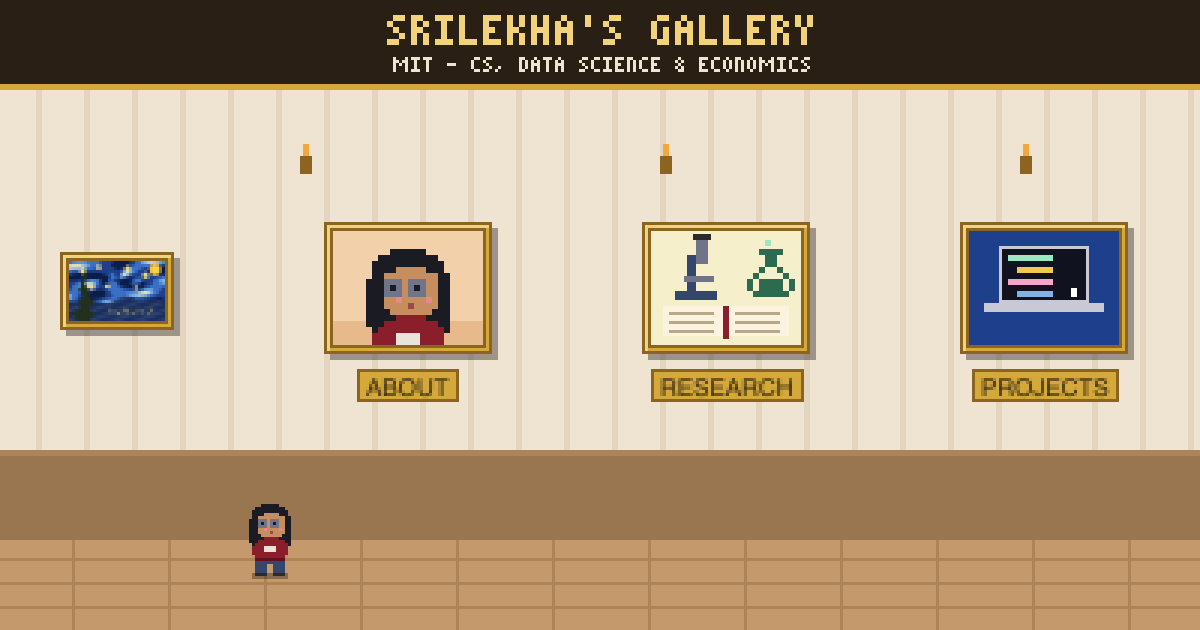
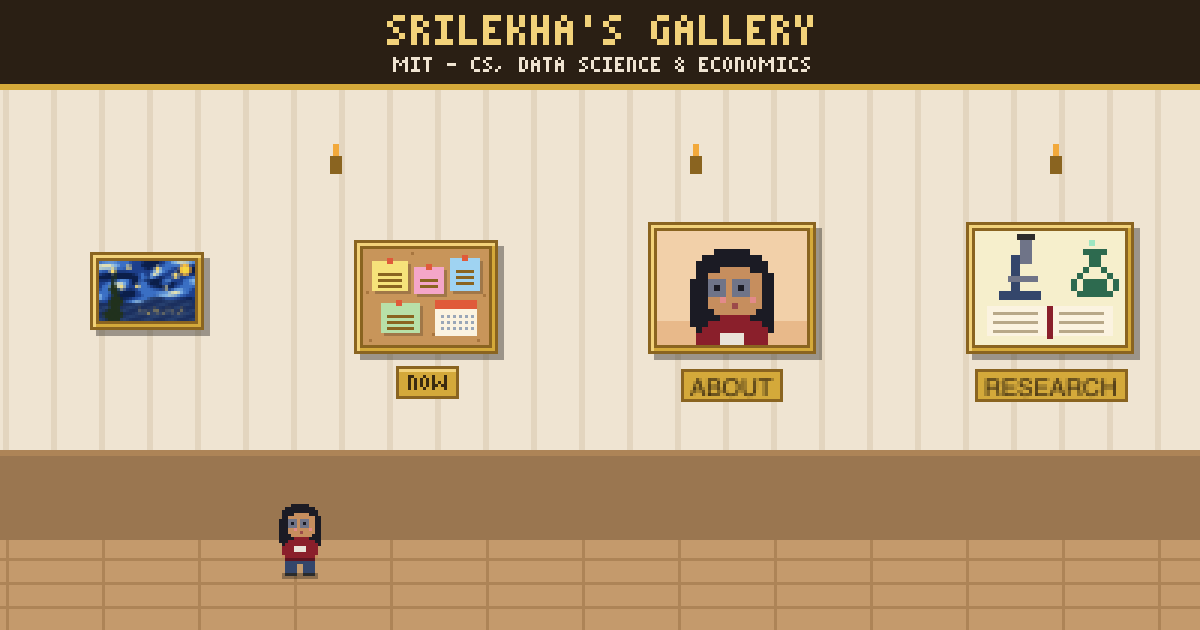
Add a Now board to the main hall
A corkboard between the Starry Night and About shows this month's card
(edit data.now); the Quick view opens with the same list. The link
preview image is regenerated to include it.

diff --git a/frontend/src/scenes/rooms.test.js b/frontend/src/scenes/rooms.test.js
@@ -12,12 +12,12 @@ const builds = data.projects.filter((p) => p.room !== 'research')
 
 describe('rooms', () => {
   it('main hall has its six frames in order and no tiles', () => {
-    expect(rooms.hall.frames.map((f) => f.id)).toEqual(['starry', 'about', 'research', 'projects', 'experience', 'contact'])
+    expect(rooms.hall.frames.map((f) => f.id)).toEqual(['starry', 'now', 'about', 'research', 'projects', 'experience', 'contact'])
     expect(rooms.hall.tiles).toEqual([])
     const [starry, about] = rooms.hall.frames
     expect(starry.w).toBeLessThan(about.w)
     expect(starry.h).toBeLessThan(about.h)
-    for (const f of rooms.hall.frames.slice(1)) expect(f.target).toBe(f.id)
+    for (const f of rooms.hall.frames.slice(2)) expect(f.target).toBe(f.id)
   })
   it('shows every project and role exactly once across the three work rooms', () => {
     const work = ['research', 'projects', 'experience'].flatMap((id) => rooms[id].frames)
@@ -208,5 +208,14 @@ describe('rooms', () => {
   it('TRACE credits MIT CSAIL on its plaque', () => {
     const trace = rooms.research.frames.find((f) => f.thumb.art === 'trace')
     expect(plaqueLines(trace.plaque)).toEqual(['Knowledge Graph QA', 'MIT CSAIL'])
+  })
+  it('the main hall has a Now board with this month\'s card and no portal', () => {
+    const now = rooms.hall.frames.find((f) => f.id === 'now')
+    expect(now.kind).toBe('now')
+    expect(now.target).toBeUndefined()
+    expect(now.plaque).toBe('Now')
+    expect(now.thumb).toEqual({ type: 'art', art: 'now' })
+    expect(now.card.title).toBe(`Now · ${data.now.month}`)
+    expect(now.card.bullets).toEqual(data.now.items)
   })
 })

diff --git a/frontend/src/scenes/rooms.js b/frontend/src/scenes/rooms.js
@@ -35,11 +35,20 @@ const START_TILE_X = 16 // Home portal just inside the entrance
 const SECTION_SPAWN_X = 64 // arrive clear of that portal
 const FIRST_ITEM_X = 100
 
-export function buildHall() {
+export function buildHall(now) {
   const frames = []
   let x = 60
   frames.push({ id: 'starry', kind: 'starry', label: 'The Starry Night', x, ...STARRY_FRAME })
   x += STARRY_FRAME.w + HALL_GAP
+  if (now) {
+    // "Now" board: a corkboard with this month's card, not a portal.
+    frames.push({
+      id: 'now', kind: 'now', label: 'Now', plaque: 'Now', x, ...ITEM_FRAME,
+      thumb: { type: 'art', art: 'now' },
+      card: card({ title: `Now · ${now.month}`, bullets: now.items }),
+    })
+    x += ITEM_FRAME.w + HALL_GAP
+  }
   for (const s of SECTIONS) {
     frames.push({ id: s.id, kind: 'section', label: s.label, target: s.id, cover: s.id, x, ...HALL_FRAME })
     x += HALL_FRAME.w + HALL_GAP
@@ -197,7 +206,7 @@ export function buildRooms(data) {
   const section = (id) => SECTIONS.find((s) => s.id === id)
   const inResearch = (x) => x.room === 'research'
   return {
-    hall: buildHall(),
+    hall: buildHall(data.now),
     about: sectionRoom(section('about'), aboutItems(data)),
     // Research: roles first, then papers, so the CSAIL role sits next to its paper.
     research: sectionRoom(section('research'), [

diff --git a/frontend/src/engine/paintings/frameArt.js b/frontend/src/engine/paintings/frameArt.js
@@ -236,6 +236,22 @@ const SCENES = {
     r(0, 30, 42, 2, '#9ccf8a')
   },
 
+  // ---- Main hall ----
+  // Now board: pinned notes and this month's calendar page on a corkboard
+  now(r, px, t) {
+    r(0, 0, 42, 32, '#c8955a')
+    for (const [sx, sy] of [[2, 30], [16, 1], [40, 15], [23, 28], [1, 14], [38, 30]]) r(sx, sy, 1, 1, '#a8763f')
+    const note = (x, y, w, h, color) => {
+      r(x + 1, y + 1, w, h, 'rgba(0,0,0,0.2)'); r(x, y, w, h, color)
+      for (let ly = y + 4; ly < y + h - 1; ly += 2) r(x + 2, ly, w - 4, 1, '#8a6420')
+      r(x + Math.floor(w / 2) - 1, y - 1, 2, 2, '#e05a3a')
+    }
+    note(3, 4, 12, 10, '#f6e27a'); note(17, 6, 10, 9, '#f4a6c8'); note(29, 3, 10, 11, '#9fd3f2'); note(6, 18, 13, 10, '#b8e0a8')
+    r(24, 17, 14, 12, '#fbf3e0'); r(24, 17, 14, 3, '#e05a3a')
+    for (let gy = 22; gy < 28; gy += 2) for (let gx = 26; gx < 37; gx += 2) r(gx, gy, 1, 1, '#9aa7b8')
+    if (Math.floor(t * 2) % 2) r(32, 24, 3, 3, '#e05a3a') // today, circled
+  },
+
   // ---- About ----
   avatar(r, px, t) {
     r(0, 0, 42, 32, '#f2d0a9'); r(0, 24, 42, 8, '#e8b98a')

diff --git a/frontend/src/ui/QuickView.test.jsx b/frontend/src/ui/QuickView.test.jsx
@@ -10,7 +10,7 @@ describe('QuickView', () => {
       expect(screen.getByRole('heading', { name: h })).toBeTruthy()
     }
     for (const p of data.projects) expect(screen.getByText(p.title)).toBeTruthy()
-    for (const e of data.experience) expect(screen.getByText(e.company)).toBeTruthy()
+    for (const e of data.experience) expect(screen.getByRole('heading', { name: e.company })).toBeTruthy()
   })
   it('never shows a GPA', () => {
     const { container } = render(<QuickView data={data} onClose={() => {}} />)
@@ -46,5 +46,10 @@ describe('QuickView', () => {
     render(<QuickView data={data} onClose={() => {}} />)
     const trace = screen.getByText(/^TRACE:/).closest('article')
     expect(trace.querySelectorAll('li')).toHaveLength(2)
+  })
+  it('opens with what Srilekha is doing now', () => {
+    render(<QuickView data={data} onClose={() => {}} />)
+    const now = screen.getByRole('heading', { name: `Now · ${data.now.month}` }).closest('section')
+    expect(now.querySelectorAll('li')).toHaveLength(data.now.items.length)
   })
 })

diff --git a/frontend/src/ui/QuickView.jsx b/frontend/src/ui/QuickView.jsx
@@ -26,7 +26,7 @@ const project = (p) => (
 
 export default function QuickView({ data, onClose }) {
   const closeRef = useRef(null)
-  const { profile, education, skills, interests, experience, projects } = data
+  const { profile, education, skills, interests, experience, projects, now } = data
 
   useEffect(() => {
     closeRef.current?.focus()
@@ -46,6 +46,11 @@ export default function QuickView({ data, onClose }) {
             <p>{profile.fullRole}</p>
           </div>
         </header>
+
+        <section>
+          <h2>Now · {now.month}</h2>
+          <ul>{now.items.map((item) => <li key={item}><RichText text={item} /></li>)}</ul>
+        </section>
 
         <section>
           <h2>About</h2>

diff --git a/frontend/src/engine/game.js b/frontend/src/engine/game.js
@@ -90,7 +90,9 @@ export function createGame({ canvas, emitter, data, initialRoom = 'hall', playIn
       if (ev.type === 'frame') {
         if (inHall) {
           const f = ev.frame
-          emitter.emit('bubble', f ? { text: f.kind === 'starry' ? STARRY_TEXT : enterFrameText(f.label, isTouch) } : null)
+          emitter.emit('card', f?.card ?? null) // the Now board has a card; the paintings don't
+          if (f?.card) audio.sfx('card')
+          emitter.emit('bubble', f && !f.card ? { text: f.kind === 'starry' ? STARRY_TEXT : enterFrameText(f.label, isTouch) } : null)
         } else {
           emitter.emit('card', ev.frame?.card ?? null)
           if (ev.frame) audio.sfx('card')

diff --git a/frontend/src/data.js b/frontend/src/data.js
@@ -33,6 +33,17 @@ export const skills = [
   { group: "Tools & Platforms", items: ["Bloomberg Terminal", "PowerPoint", "Word", "Excel", "Tableau", "Power BI", "Databricks", "AWS"] },
 ];
 
+// What I'm up to right now, shown on the "Now" board in the main hall. Update monthly.
+export const now = {
+  month: "September 2026",
+  items: [
+    "Researching **LLM memory** at the **MIT Media Lab**",
+    "Building **LLM evaluation pipelines** as an ML intern at **Acronym**",
+    "Sourcing **AI and frontier-tech startups** at **HOF Capital**",
+    "Running a **behavioral economics RCT** with **MIT Economics**",
+  ],
+};
+
 export const interests = {
   academic: [
     "AI & machine learning",

diff --git a/frontend/src/engine/paintings/frameArt.test.js b/frontend/src/engine/paintings/frameArt.test.js
@@ -6,7 +6,7 @@ import { FRAME_ART, drawFrameArt, HOBBY_ICONS } from './frameArt.js'
 const X = 100, Y = 53, W = 42, H = 32 // item frame inner area
 
 it('has scenes for the About and Contact rooms', () => {
-  for (const k of ['avatar', 'mit', 'inventory', 'interests', 'email', 'github', 'linkedin']) expect(FRAME_ART).toHaveProperty(k)
+  for (const k of ['avatar', 'mit', 'inventory', 'interests', 'email', 'github', 'linkedin', 'now']) expect(FRAME_ART).toHaveProperty(k)
 })
 
 describe('frame art', () => {

diff --git a/frontend/src/data.test.js b/frontend/src/data.test.js
@@ -75,4 +75,9 @@ describe('content', () => {
       'AI Insurance Chatbot', 'ML for Skin Diagnosis', 'ML-Based Food Expiry Predictor', 'AI Ad Campaign Manager',
     ])
   })
+  it('has a short Now list for the main hall', () => {
+    expect(data.now.month).toMatch(/^[A-Z][a-z]+ \d{4}$/)
+    expect(data.now.items.length).toBeGreaterThanOrEqual(1)
+    expect(data.now.items.length).toBeLessThanOrEqual(5)
+  })
 })
